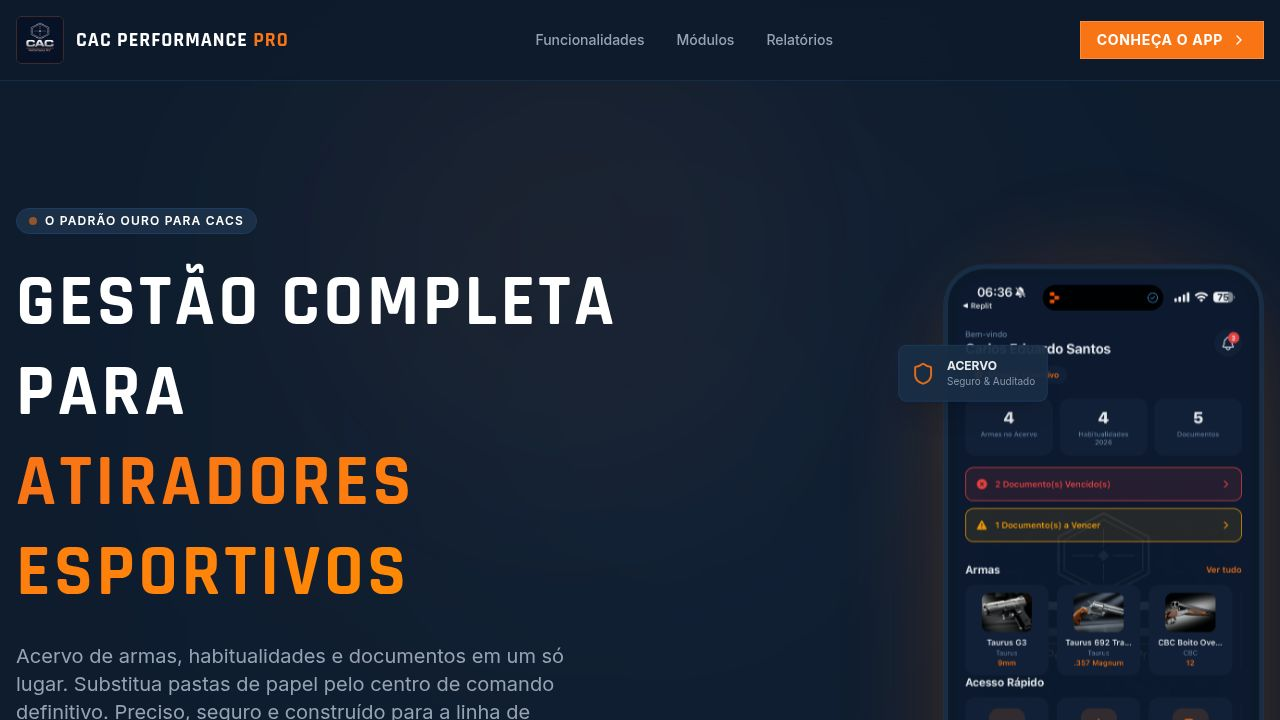
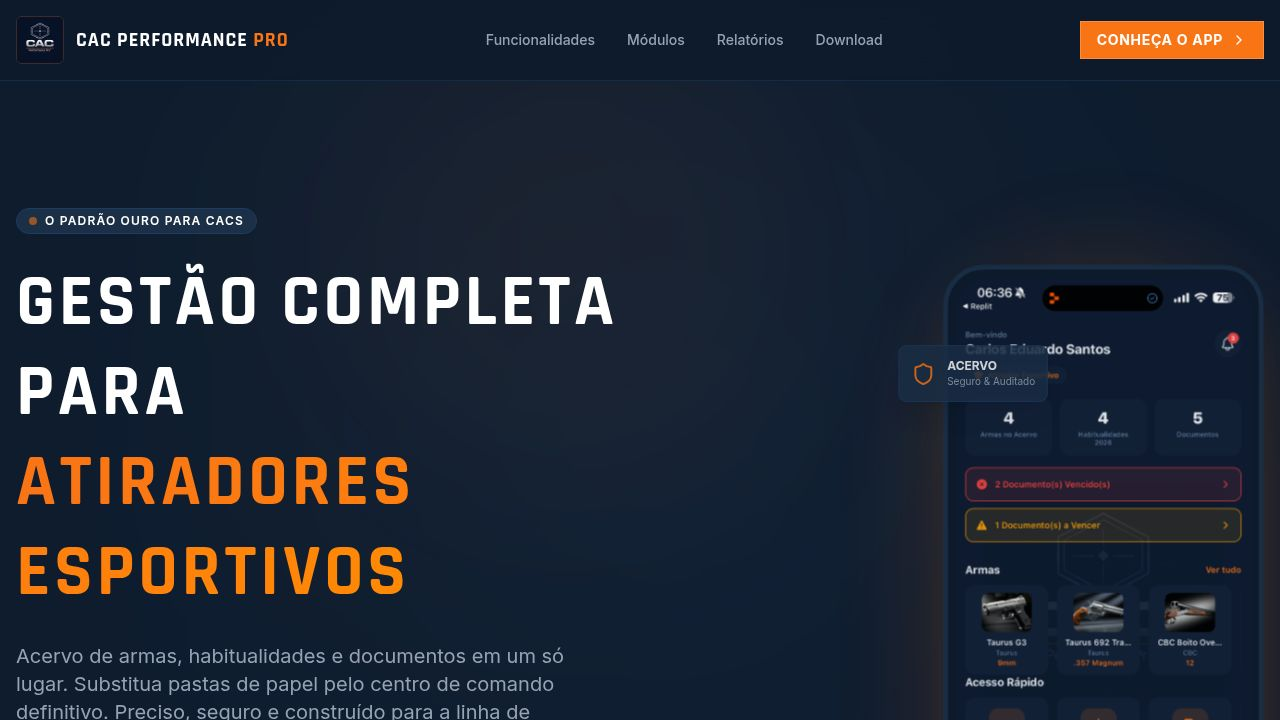
feat: Add download section with official App Store and Google Play badges
Task: Adicionar seção de download e links para App Store / Google Play

## What was done
- Added a new "Download" section (id="download") to the landing page, placed between the Reports section and the final CTA section
- Section includes:
  - "Disponível Em Breve" pill badge with animated pulse indicator
  - "Baixe o App Agora" heading and descriptive subtitle
  - Official App Store badge SVG asset (public/badge-app-store.svg) with proper black rounded rectangle, Apple logo, and "Download on the / App Store" typography
  - Official Google Play badge SVG asset (public/badge-google-play.svg) with proper Google Play multicolor logo and "GET IT ON / Google Play" typography
  - Hover effects (scale + orange glow drop-shadow) consistent with brand
  - Platform requirements strip (iOS 15+, Android 9+, Gratuito) with dividers
  - Framer Motion scroll-triggered fade-in animation
  - Subtle orange gradient overlay background for visual depth
- Added "Download" nav link to navbar pointing to #download anchor
- Extracted store URLs to top-level constants (APP_STORE_URL, GOOGLE_PLAY_URL) at the top of LandingPage.tsx, clearly marked as configurable placeholders for when the app is published
- Badge images served from /public directory for reliable loading

## Notes
- Store URLs are placeholder roots (https://apps.apple.com, https://play.google.com) since the app is not yet published — will be updated with actual product page links when live
[…]

diff --git a/artifacts/cac-performance-pro/src/pages/LandingPage.tsx b/artifacts/cac-performance-pro/src/pages/LandingPage.tsx
@@ -3,6 +3,9 @@ import { motion } from "framer-motion";
 import { ChevronRight, Shield, Target, FileText, FileBarChart, CheckCircle2, User } from "lucide-react";
 import { Button } from "@/components/ui/button";
 
+const APP_STORE_URL = "https://apps.apple.com";
+const GOOGLE_PLAY_URL = "https://play.google.com";
+
 import logoImage from "@assets/ddd08efe-f319-4193-824f-ac1073adad1e_1776771986755.JPG";
 import homeScreen from "@assets/IMG_7699_1776770991969.PNG";
 import acervoScreen from "@assets/IMG_7700_1776770991969.PNG";
@@ -34,6 +37,7 @@ export default function LandingPage() {
             <a href="#features" className="hover:text-primary transition-colors">Funcionalidades</a>
             <a href="#modules" className="hover:text-primary transition-colors">Módulos</a>
             <a href="#reports" className="hover:text-primary transition-colors">Relatórios</a>
+            <a href="#download" className="hover:text-primary transition-colors">Download</a>
           </nav>
           <Button className="bg-primary text-primary-foreground hover:bg-primary/90 font-bold uppercase tracking-wider rounded-none relative overflow-hidden group">
             <span className="relative z-10 flex items-center gap-2">
@@ -426,6 +430,80 @@ export default function LandingPage() {
                 />
               </div>
             </div>
+          </div>
+        </section>
+
+        {/* Download Section */}
+        <section id="download" className="py-24 relative overflow-hidden">
+          <div className="absolute inset-0 bg-gradient-to-b from-transparent via-primary/5 to-transparent pointer-events-none" />
+          <div className="container mx-auto px-4 relative z-10">
+            <motion.div
+              initial={{ opacity: 0, y: 30 }}
+              whileInView={{ opacity: 1, y: 0 }}
+              viewport={{ once: true, margin: "-100px" }}
+              className="flex flex-col items-center text-center"
+            >
+              <div className="inline-flex items-center gap-2 px-3 py-1 rounded-full bg-secondary border border-border w-fit mb-6">
+                <div className="w-2 h-2 rounded-full bg-primary animate-pulse" />
+                <span className="text-xs font-semibold uppercase tracking-widest text-muted-foreground">Disponível Em Breve</span>
+              </div>
+
+              <h2 className="text-4xl lg:text-5xl font-display font-bold mb-4">
+                Baixe o App Agora
+              </h2>
+              <p className="text-xl text-muted-foreground max-w-xl mb-12">
+                Disponível para iPhone e Android. Leve seu centro de comando no bolso aonde for.
+              </p>
+
+              <div className="flex flex-col sm:flex-row items-center gap-5">
+                {/* App Store Badge */}
+                <a
+                  href={APP_STORE_URL}
+                  target="_blank"
+                  rel="noopener noreferrer"
+                  className="group transition-all duration-300 hover:opacity-80 hover:scale-105 hover:drop-shadow-[0_0_16px_rgba(249,115,22,0.35)]"
+                  aria-label="Baixar na App Store"
+                >
+                  <img
+                    src={`${import.meta.env.BASE_URL}badge-app-store.svg`}
+                    alt="Baixar na App Store"
+                    className="h-16 w-auto"
+                  />
+                </a>
+
+                {/* Google Play Badge */}
+                <a
+                  href={GOOGLE_PLAY_URL}
+                  target="_blank"
+                  rel="noopener noreferrer"
+                  className="group transition-all duration-300 hover:opacity-80 hover:scale-105 hover:drop-shadow-[0_0_16px_rgba(249,115,22,0.35)]"
+                  aria-label="Disponível no Google Play"
+                >
+                  <img
+                    src={`${import.meta.env.BASE_URL}badge-google-play.svg`}
+                    alt="Disponível no Google Play"
+                    className="h-16 w-auto"
+                  />
+                </a>
+              </div>
+
+              <div className="flex items-center gap-10 mt-14 pt-10 border-t border-border/50">
+                <div className="flex flex-col items-center gap-1">
+                  <span className="text-2xl font-display font-bold text-white">iOS 15+</span>
+                  <span className="text-xs text-muted-foreground uppercase tracking-wider">Requisito</span>
+                </div>
+                <div className="w-px h-10 bg-border" />
+                <div className="flex flex-col items-center gap-1">
+                  <span className="text-2xl font-display font-bold text-white">Android 9+</span>
+                  <span className="text-xs text-muted-foreground uppercase tracking-wider">Requisito</span>
+                </div>
+                <div className="w-px h-10 bg-border" />
+                <div className="flex flex-col items-center gap-1">
+                  <span className="text-2xl font-display font-bold text-white">Gratuito</span>
+                  <span className="text-xs text-muted-foreground uppercase tracking-wider">Download</span>
+                </div>
+              </div>
+            </motion.div>
           </div>
         </section>
 
